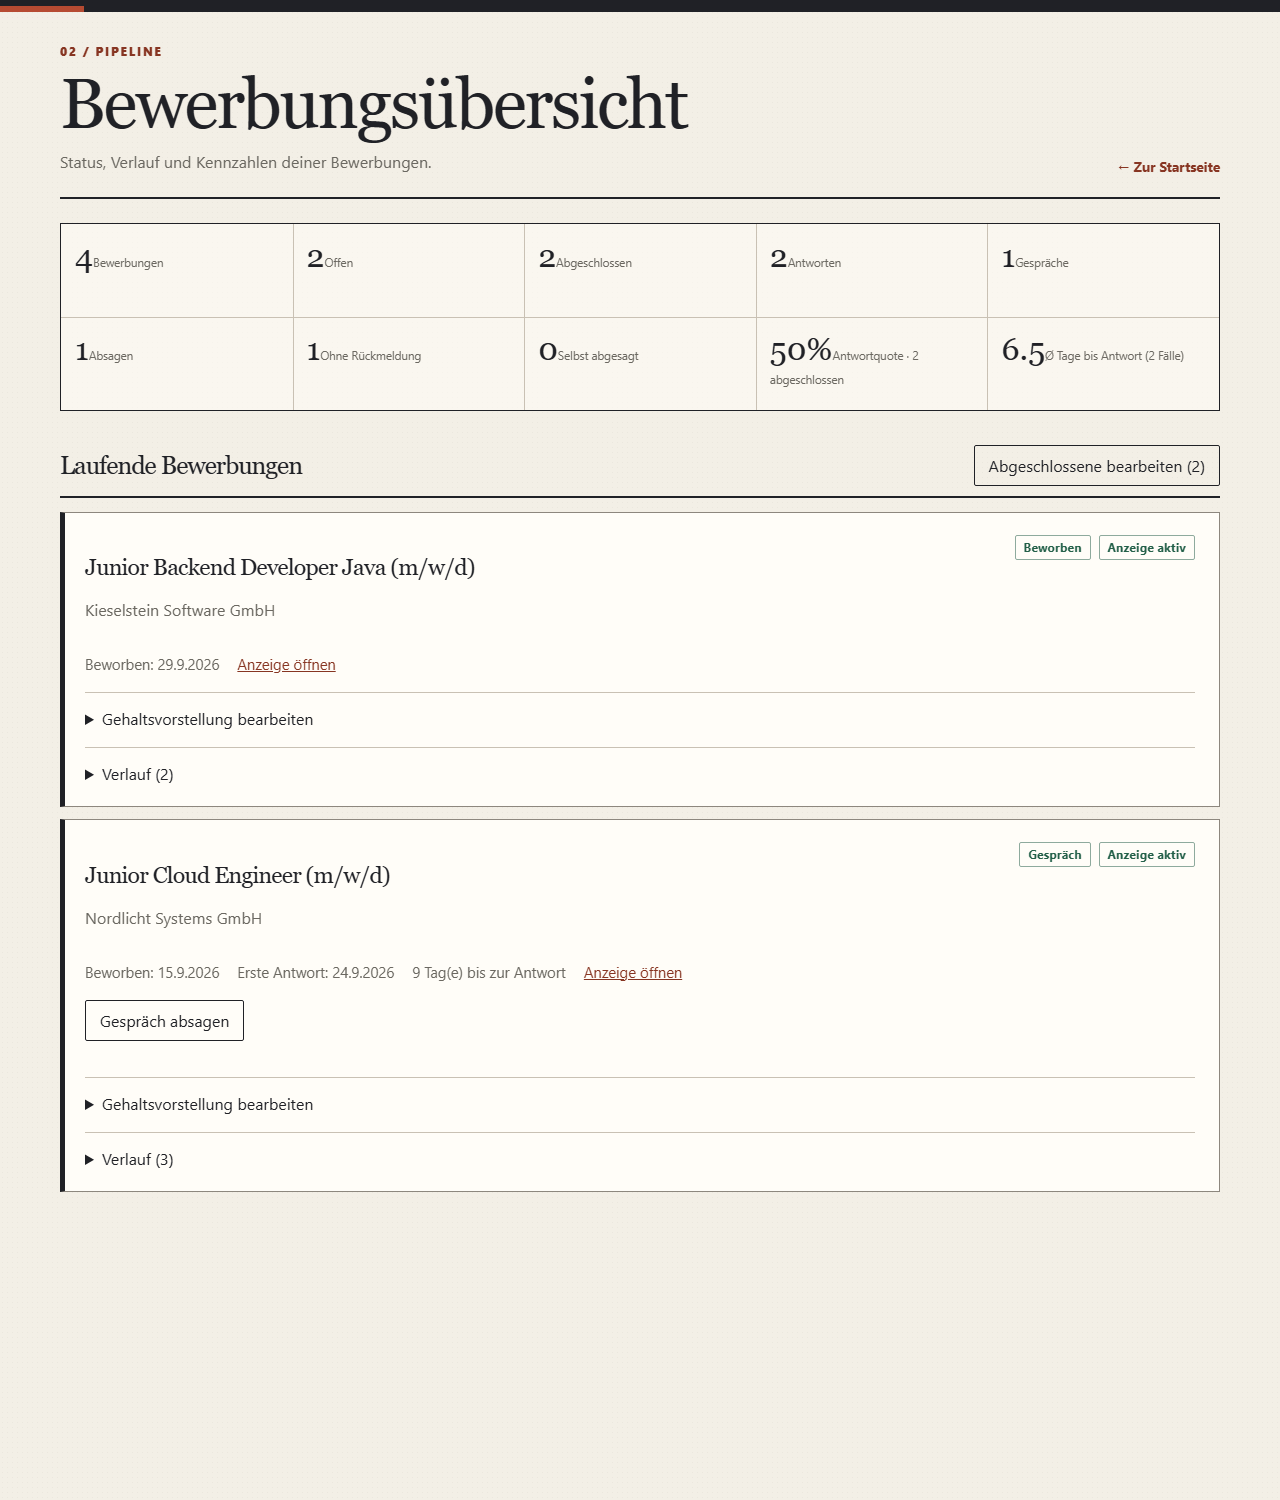
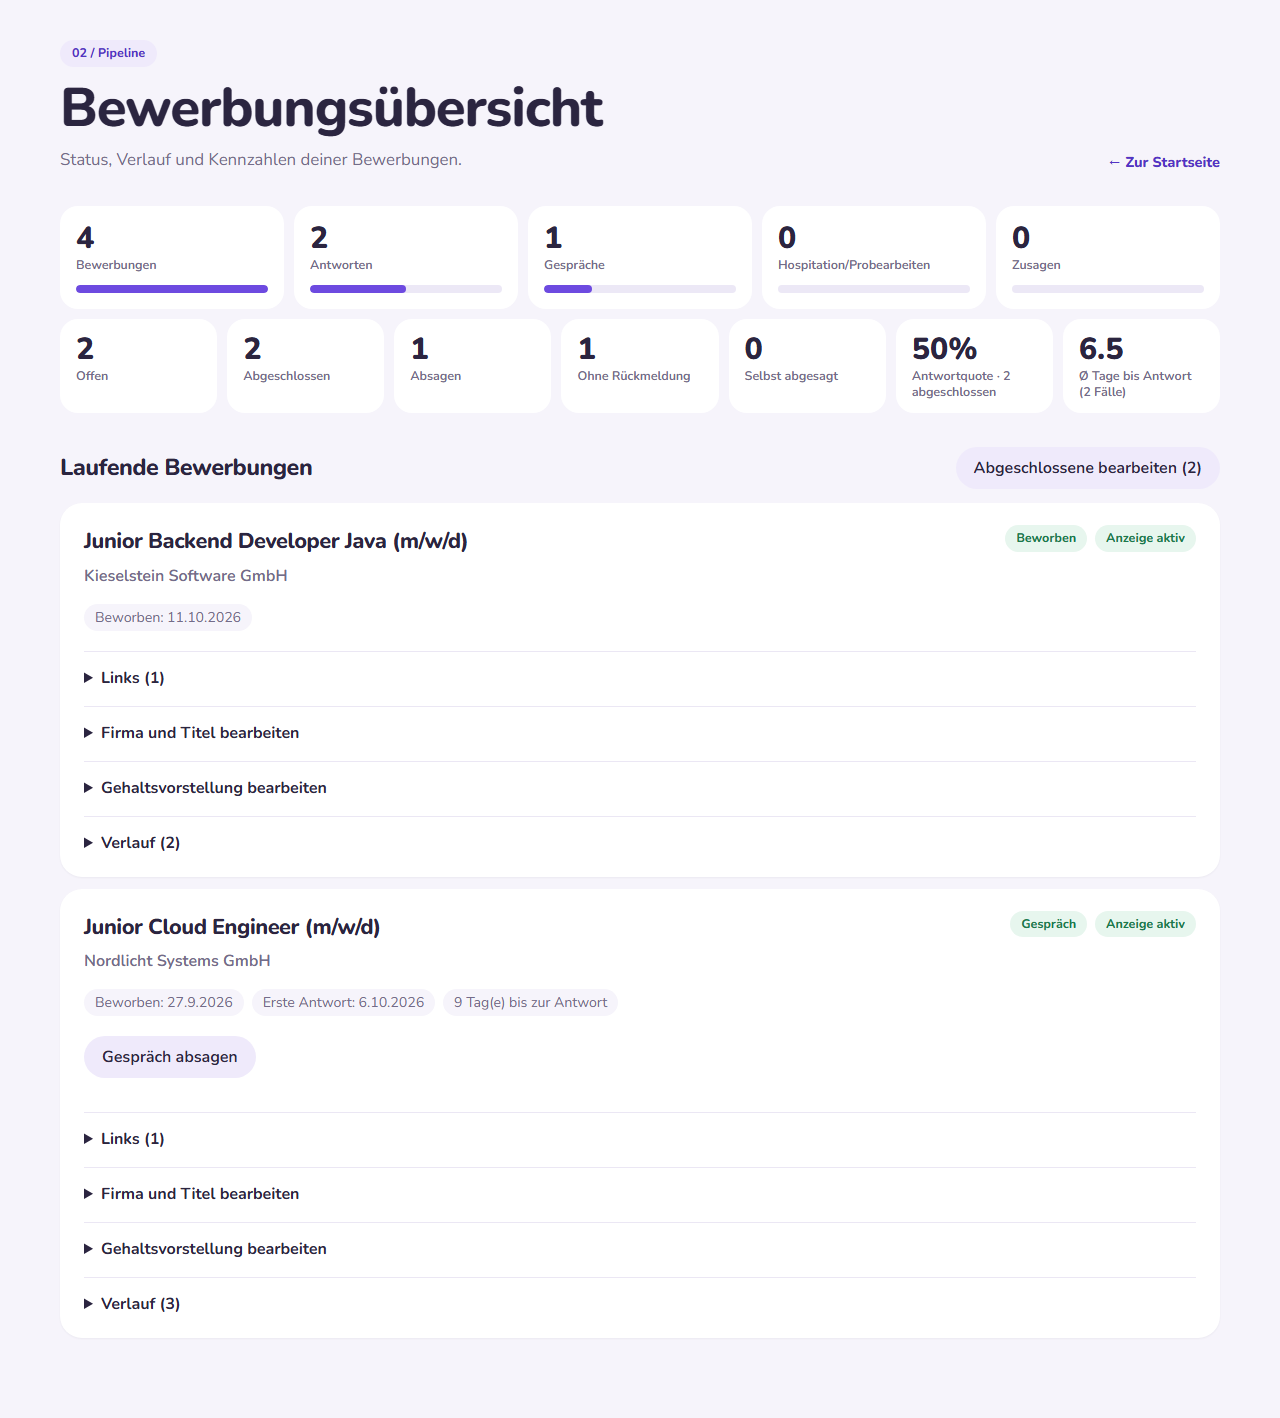
docs: refresh the README pitch, highlights and screenshots

diff --git a/README.md b/README.md
@@ -1,78 +1,59 @@
 # Job Finder
 
-A personal job-search assistant for entry-level IT roles in Germany. It collects
-listings from job boards, open feeds and company career pages, merges listings of
-the same job, filters out clear misfits with transparent rules and lets an LLM
-agent write a short fact sheet for the promising ones, within a hard cost limit.
-A small web app supports the review and tracks applications.
+A job-search assistant for entry-level IT roles in Germany that runs on Azure. It
+collects listings from job boards, feeds and career pages, merges duplicates,
+filters out clear misfits with transparent rules and lets an LLM agent write a
+short fact sheet for the promising ones, within a hard cost limit. A small web app
+supports the review and tracks applications.
 
-The user interface is in German, because the tool serves a job search in Germany;
-the documentation is in English.
+![The review: a job card with prefilter score, the agent's traffic-light fact sheet and the decision buttons](docs/images/review.png)
 
-## Highlights
+I built it for my own job search and use it daily; it is also my portfolio
+project for cloud and backend work. The interface is German, the documentation
+English. Everything in the screenshots comes from made-up
+[demo data](#demo-with-made-up-data).
 
-- **LLM agent with guardrails:** a LangGraph graph with a LangChain model on Azure
-  OpenAI (Responses API with web search) writes a structured fact sheet per job:
-  seven traffic-light lines, a verdict and a short reason. Its tools only read, job
-  ads and web pages count as material rather than instructions, and only links the
-  model actually saw survive as sources. One Pydantic model defines and checks the
-  sheet. Each sheet records the profile, rules, ad and model it was written on, so
-  the review flags outdated sheets; an incomplete answer gets one more try, and a
-  new sheet comes only when the user asks for it.
-- **Cost control in layers:** every model and tool call passes a cost guard backed
-  by a ledger in PostgreSQL, with limits per job, day and month that fail closed.
-  In Azure, a throttled model deployment, a token alert and a monthly budget add to
-  it. A fact sheet costs a few cents.
-- **Azure without account keys:** storage and the model accept only Entra ID,
-  secrets come from Key Vault through a managed identity, and the review app sits
-  behind Entra ID sign-in for one account. It becomes public only after its
-  sign-in is configured, and every deploy checks that it serves nothing without
-  sign-in.
-- **Infrastructure as code and gated delivery:** Terraform manages all resources.
-  GitHub Actions sign in to Azure with OIDC, using separate identities for plan,
-  build and apply. After a merge, CI plans against the live Azure state, and the
-  approved deploy applies exactly that saved plan. The image rolls out by digest,
-  and the deploy waits for a healthy revision. A one-click rollback workflow restores
-  the previous digest.
-- **Supply chain:** builds install the exact versions from `uv.lock`, actions are
-  pinned to commit SHAs, and the image runs as a non-root user without pip or uv.
-  CI scans the image and the Terraform code with Trivy; a new Terraform finding
-  fails the pull request, and the accepted ones are documented with a reason.
-  CodeQL analyses the code, and Dependabot proposes updates every week.
-- **Careful data handling:** PostgreSQL with advisory locks and consistent
-  snapshot reads; a source that fails never wipes the listings it found before.
-- **Rehearsed recovery:** 14 days of point-in-time restore for the database and
-  version-pinned application documents. A drill in Azure restored an older state
-  into separate resources and had a signed-in review with document download
-  working after about 22 minutes, against a 60-minute target
-  ([details](docs/backup-recovery.md#result-of-the-azure-drill)).
-- **Observable agent:** every job leaves a JSON log line and an OpenTelemetry
-  trace in Application Insights (run → job → model and tool calls) with ids,
-  tokens, cost and the verdict, but never profile, prompt or ad text; a test
-  checks that. Ingestion needs Entra ID, keeps 30 days and is capped per day.
-- **Tests:** 500+ Python tests that run in CI against a real PostgreSQL with a
-  coverage report, including boundary tests for the app role's database rights
-  and the worker lock; Playwright browser tests click through the review on the
-  demo data; Pyright checks the whole application package; frontend tests and
-  Ruff for lint and formatting.
-- **Measured quality:** an eval harness (`python -m evals`) runs the agent and a
-  one-call baseline on 24 synthetic job ads with known verdicts, including two
-  prompt-injection cases. Latest run, two passes: 44/48 correct verdicts for the
-  agent and 42/48 for the baseline, no invented money amounts, about half a cent
-  per fact sheet ([report](evals/results/2026-10-01-1451-synthetisch.md)). Two
-  cases fail in every pass and are kept as known weaknesses: a pre-sales role and
-  a foreign employer that only says "Germany (remote)". A second run against the
-  owner's own decisions stays local.
+## What it shows
+
+- **An LLM agent with guardrails.** A LangGraph agent on Azure OpenAI writes a
+  structured fact sheet per job: seven traffic-light lines, a verdict and sources.
+  Its tools only read, job ads count as material rather than instructions, and only
+  links the model actually saw survive.
+- **Cost limits that fail closed.** Every model and tool call passes a cost guard
+  backed by a ledger in PostgreSQL, with limits per job, day and month; Azure adds
+  a throttled deployment, a token alert and a budget. A fact sheet costs about half
+  a cent ([ADR 0002](docs/adr/0002-layered-cost-limits.md)).
+- **Azure without account keys or runtime passwords.** Storage and model accept
+  only Entra ID, and each runtime signs in to PostgreSQL with a token of its own
+  identity, with only the table rights and secrets it needs
+  ([runtime access](docs/runtime-access.md)). The review sits behind sign-in for one
+  account, and every deploy checks that it serves nothing without it.
+- **Infrastructure as code and gated delivery.** Terraform manages all resources.
+  GitHub Actions sign in with OIDC; CI plans against the live state, the approved
+  deploy applies exactly that plan, rolls the image out by digest and waits for a
+  healthy revision. Rollback is one workflow
+  ([ADR 0007](docs/adr/0007-deployment-responsibility.md)).
+- **Supply chain.** Locked dependencies, actions pinned to commit SHAs, a non-root
+  image without pip, Trivy for image and Terraform, CodeQL and Dependabot.
+- **Rehearsed recovery.** 14 days of point-in-time restore and versioned documents.
+  A drill restored an older state into separate resources in about 22 minutes,
+  against a 60-minute target ([details](docs/backup-recovery.md#result-of-the-azure-drill)).
+- **Observability.** Every job leaves a log line and an OpenTelemetry trace (run,
+  job, model and tool calls) with tokens, cost and verdict, but never profile,
+  prompt or ad text; a test checks that.
+- **Tests and evals.** 800+ Python tests against a real PostgreSQL, including the
+  database rights of each runtime role; Playwright clicks through the demo; Pyright,
+  frontend tests and Ruff. An eval harness runs the agent and a one-call baseline on
+  24 synthetic ads with known verdicts, two of them prompt injections: 44/48 correct
+  for the agent, 42/48 for the baseline
+  ([report](evals/results/2026-10-01-1451-synthetisch.md)).
 
 ## Screenshots
 
-The review app with the made-up [demo data](#demo-with-made-up-data); the
-interface is German.
-
-| Reviewing a job | Waiting list | Applications |
-| --- | --- | --- |
-| ![A job card with the prefilter score, the agent's fact sheet and the decision buttons](docs/images/review.png) | ![A second job at a company with an open application, on the waiting list](docs/images/waiting-list.png) | ![Open applications with key figures](docs/images/applications.png) |
-| Prefilter score, the agent's fact sheet with traffic lights, verdict and sources, and the decision. | A second job at a company with an open application: the card names it, and the job can wait. | Open and closed applications, their history and key figures. |
+| Waiting list | Applications |
+| --- | --- |
+| ![A second job at a company with an open application, on the waiting list](docs/images/waiting-list.png) | ![Open applications with funnel and key figures](docs/images/applications.png) |
+| A second job at a company with an open application: the card names it, and the job can wait. | The funnel from application to offer, key figures and each application's history. |
 
 ## Architecture
 
